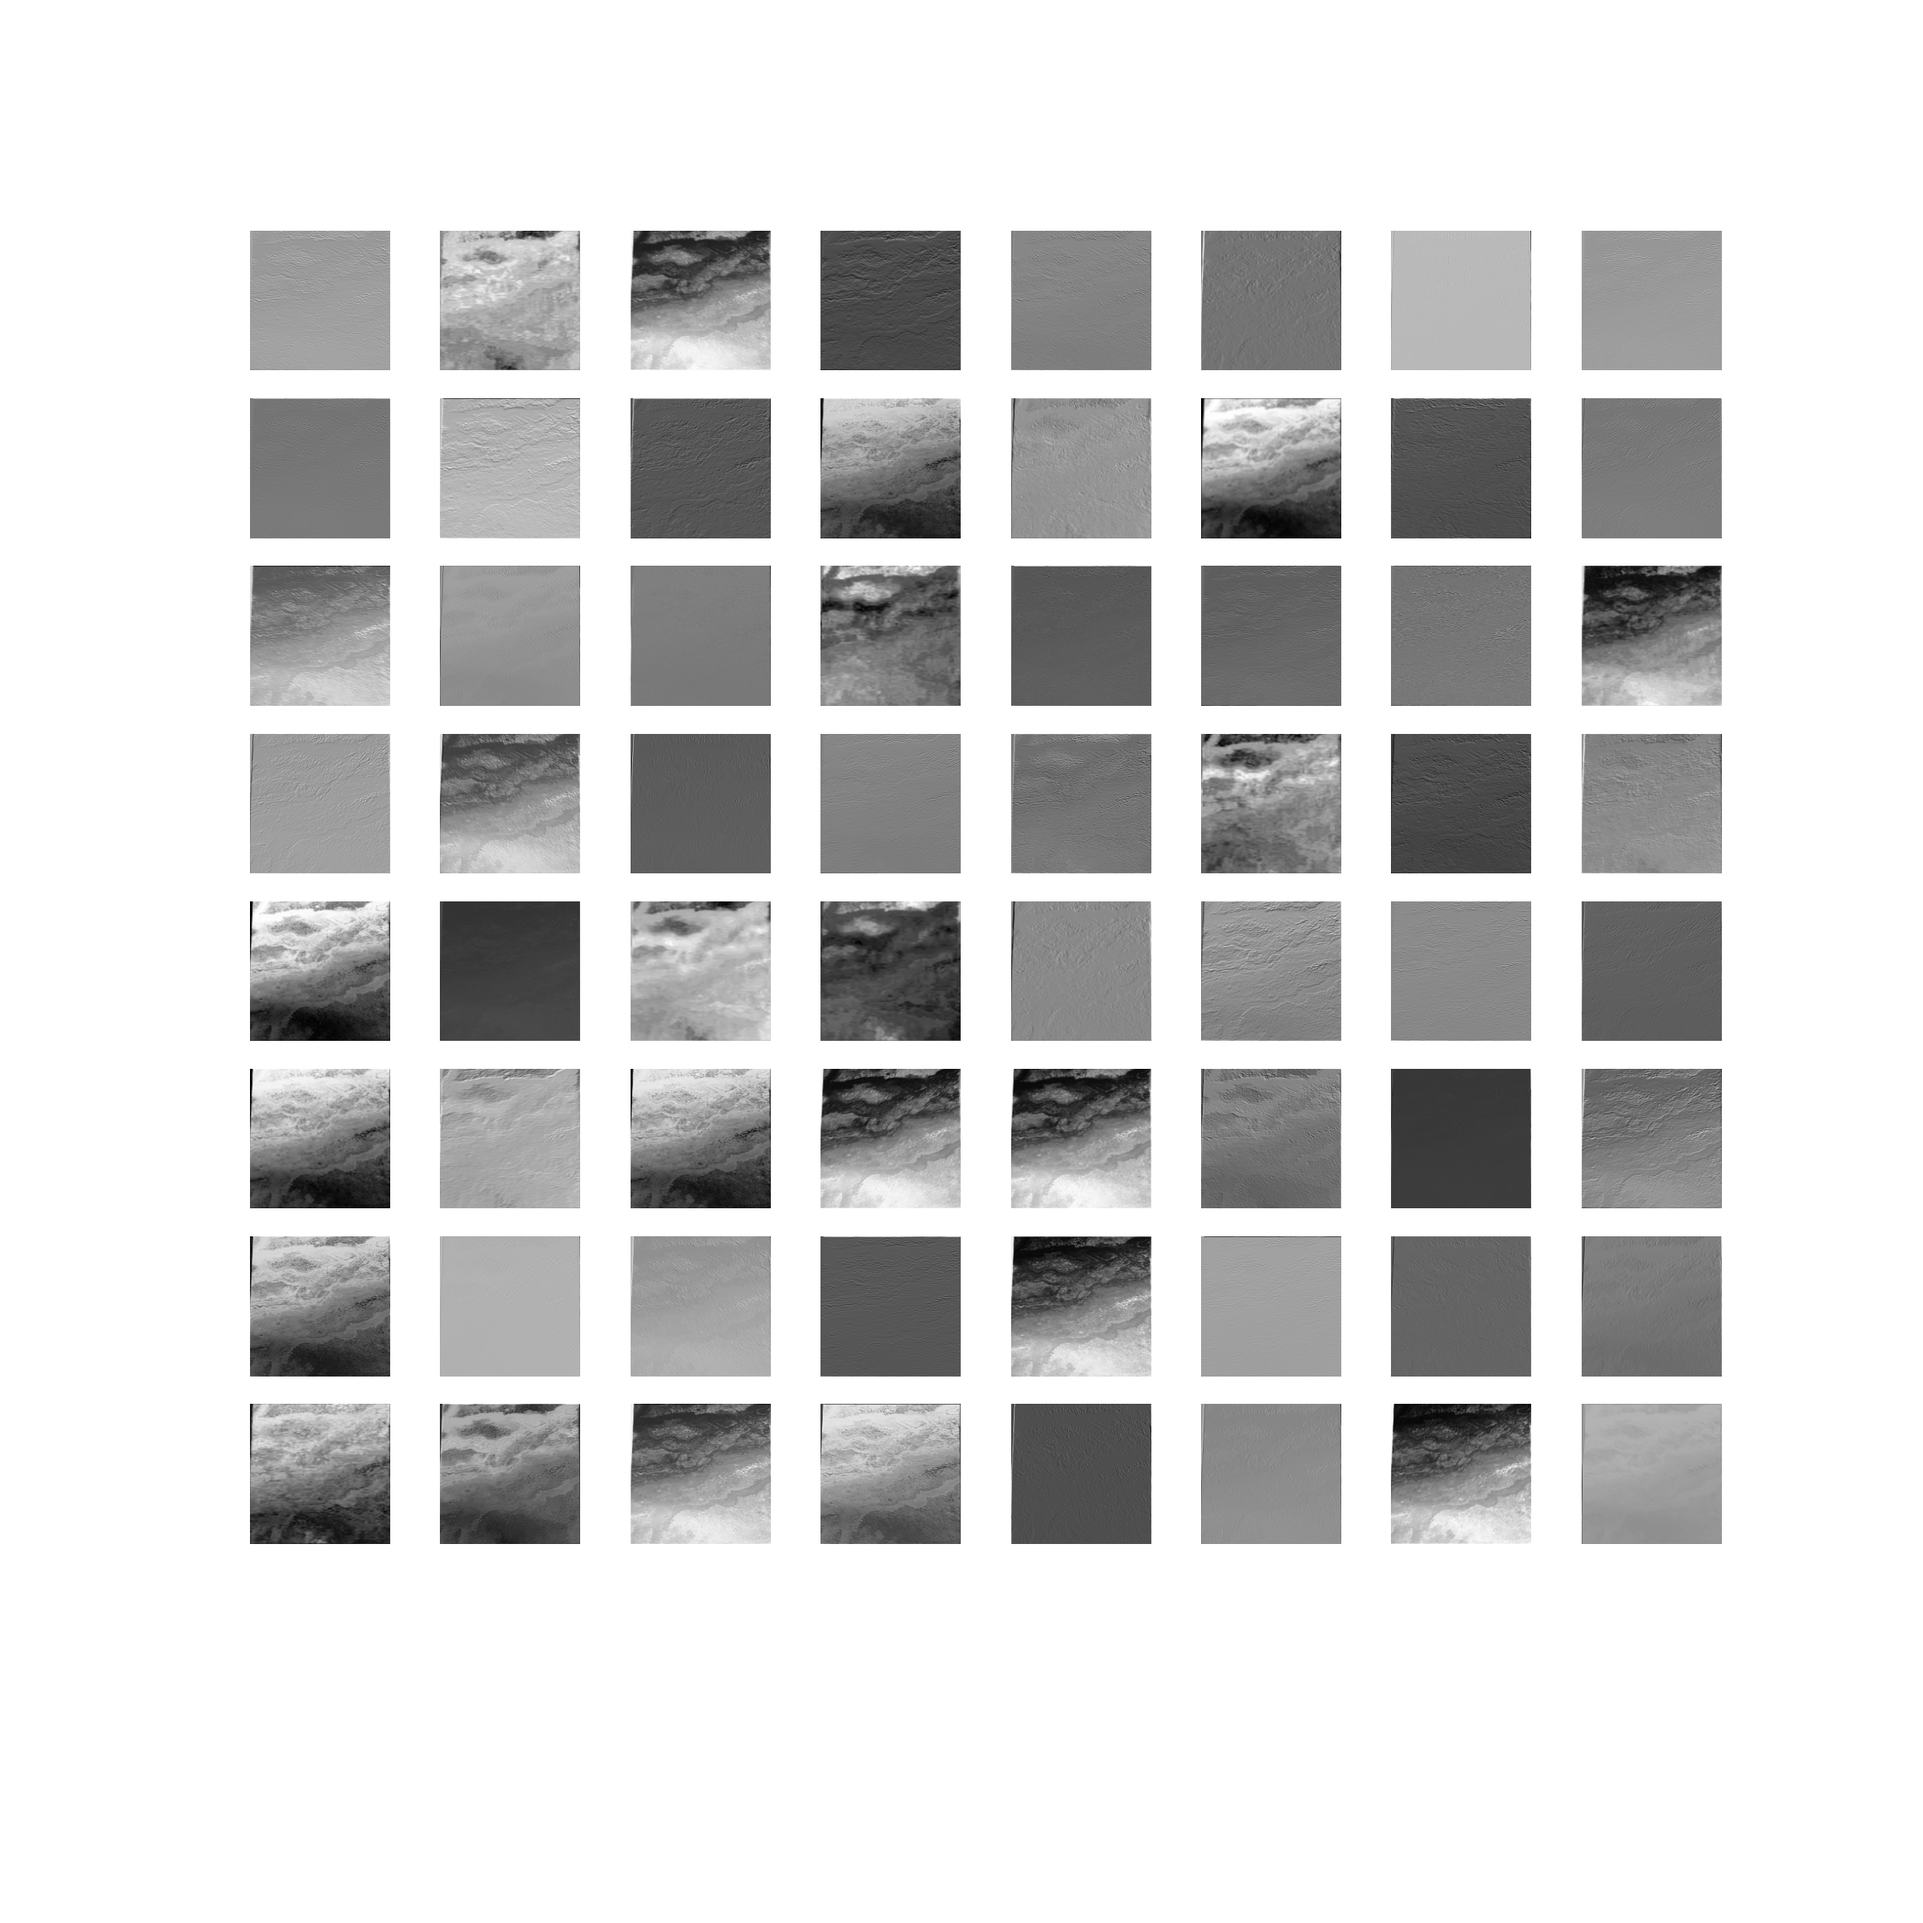
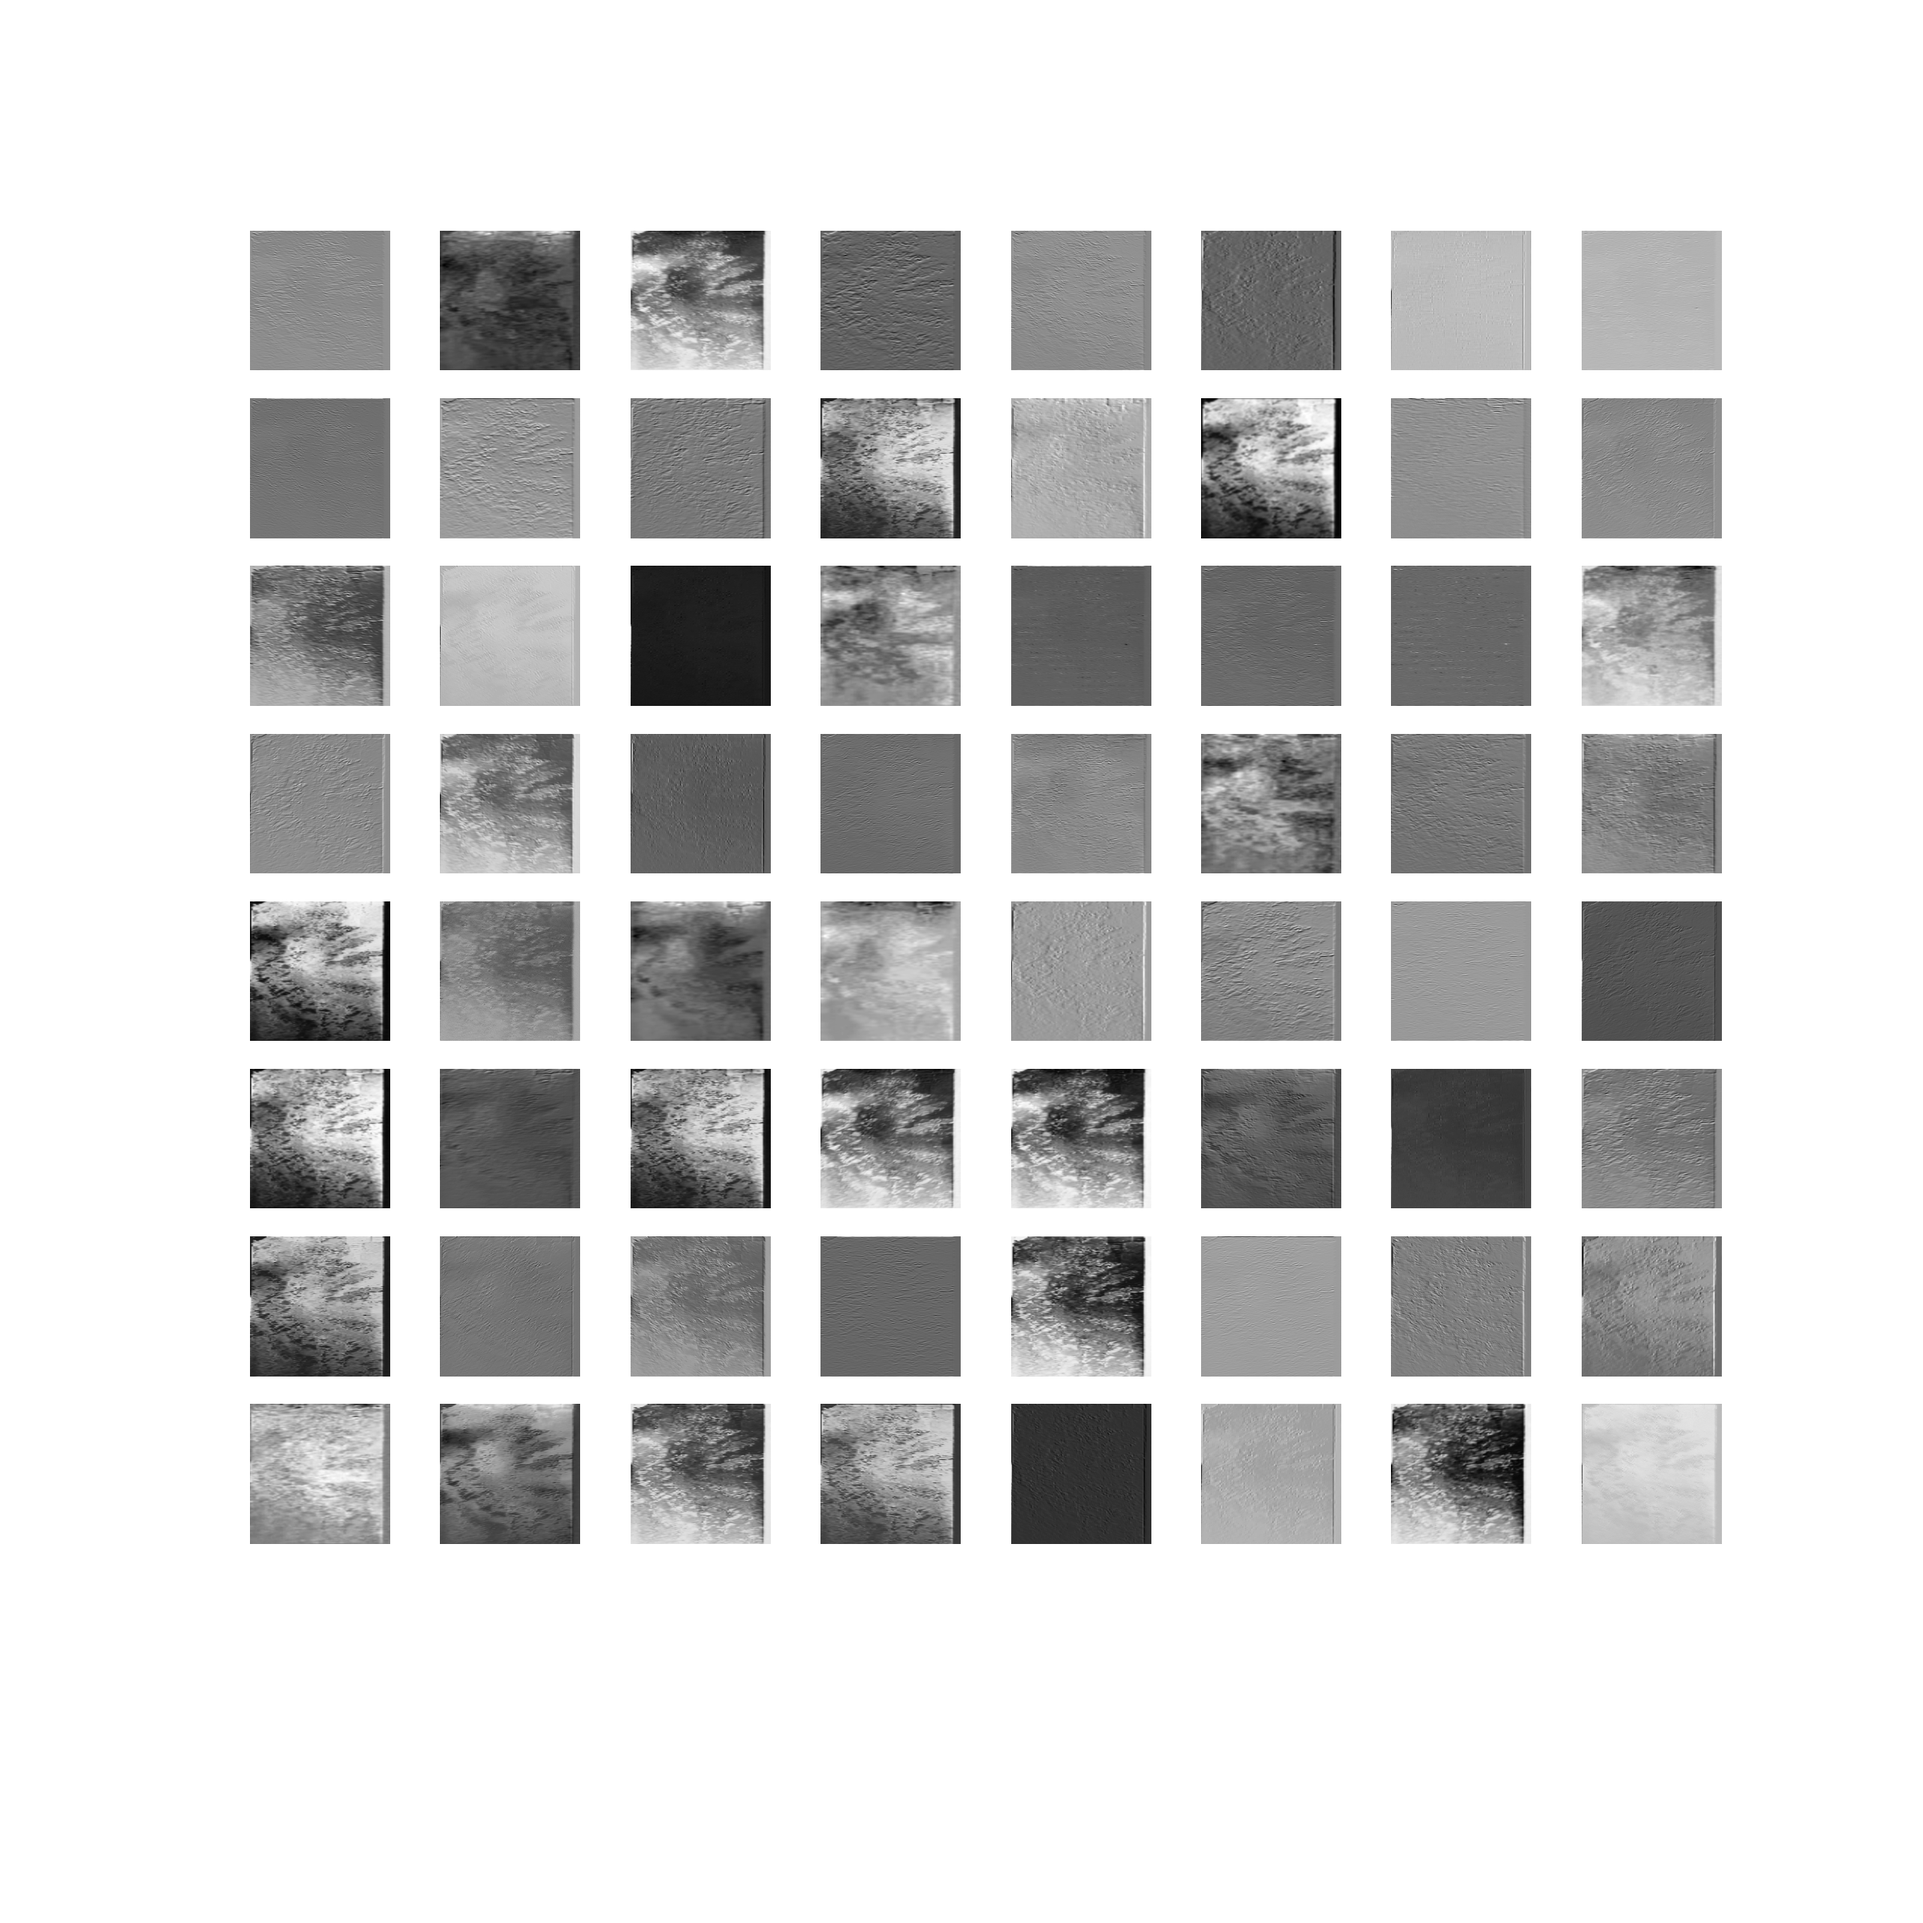
organize the GradCAM and feature maps

diff --git a/model.py b/model.py
@@ -2,7 +2,6 @@
 from PIL import Image
 import matplotlib.pyplot as plt
 import numpy as np
-
 from tqdm import tqdm
 import torch
 from torch import nn
@@ -14,10 +13,6 @@ from sklearn.model_selection import train_test_split
 # locals
 from dataset import StoneDataset
 from neural_net import Net
-
-from pytorch_grad_cam import GradCAM
-from pytorch_grad_cam.utils.model_targets import ClassifierOutputTarget
-from pytorch_grad_cam.utils.image import show_cam_on_image
 
 # Set batch size and number of epochs
 batch_size = 50
@@ -137,68 +132,78 @@ for i, (images, labels) in enumerate(test_dataloader):
         f.write(f'Test Accuracy: {test_accuracy:.2f}')
 
     print(test_accuracy)
-#
-#
-# image = Image.open("data/train/C_processed_image_42.jpg")
-# image = transform(image)
-# image = image.to(device)
-# image = image.unsqueeze(0)
-# output = model(image)
-#
-# # Choose the layer whose feature maps you want to visualize
-# target_layer = model.base_model.conv1
-#
-# # Get the activations (feature maps) from the target layer
-# activations = target_layer(image).cpu()
-#
-# # Convert activations to numpy array
-# activations = activations.detach().numpy()
-#
-# # Visualize the feature maps
-# num_feature_maps = activations.shape[1]  # Number of feature maps
-# plt.figure(figsize=(24, 24))
-# for i in range(num_feature_maps):
-#     plt.subplot(9, 8, i+1)  # Adjust the subplot layout based on the number of feature maps
-#     plt.imshow(activations[0, i, :, :], cmap='gray')
-#     plt.axis('off')
-#
-# plt.savefig("feature_maps.png")
-# plt.show()
 
-# set the model to evaluation mode
-model.eval()
-img_ = Image.open('data/train/A_processed_image_14.jpg')
-img = transform(img_).unsqueeze(0)
-img = img.to(device)
 
-logits = model(img)
-pred = torch.argmax(logits, dim=1)
+def feature_maps(model, image_path):
+    image = Image.open(image_path)
+    image = transform(image)
+    image = image.to(device)
+    image = image.unsqueeze(0)
+    output = model(image)
 
-# Compute the gradients of the predicted class output with respect to the activations of the target layer
-model.zero_grad()
-logits[:, pred].backward()
+    # Choose the layer whose feature maps you want to visualize
+    target_layer = model.base_model.conv1
 
-# Get the activations of the additional_conv layer
-gradients = model.additional_conv.weight.grad  # Gradients of additional_conv with respect to the output
-activations = model.additional_conv.weight
+    # Get the activations (feature maps) from the target layer
+    activations = target_layer(image).cpu()
 
-# Compute the gradient-weighted class activation map (CAM)
-cam = torch.mean(gradients, dim=(2, 3))  # Global average pooling along spatial dimensions
-cam = nn.functional.relu(cam)
-cam = cam.detach().cpu().numpy()[0]  # Convert to numpy array
+    # Convert activations to numpy array
+    activations = activations.detach().numpy()
 
-# # Normalize the CAM
-cam = (cam - np.min(cam)) / (np.max(cam) - np.min(cam) + 1e-10)
+    # Visualize the feature maps
+    num_feature_maps = activations.shape[1]  # Number of feature maps
+    plt.figure(figsize=(24, 24))
+    for i in range(num_feature_maps):
+        plt.subplot(9, 8, i+1)  # Adjust the subplot layout based on the number of feature maps
+        plt.imshow(activations[0, i, :, :], cmap='gray')
+        plt.axis('off')
 
-# Resize the CAM to match the input image size
-cam = np.uint8(255 * cam)
-cam = np.uint8(Image.fromarray(cam).resize((512, 512), Image.Resampling.LANCZOS))
+    plt.savefig("feature_maps.png")
+    plt.show()
 
-# Convert the input image to a numpy array
-input_image_np = img.squeeze().cpu().numpy().transpose(1, 2, 0)
 
+def grad_cam(model, image_path):
+    # set the model to evaluation mode
+    model.eval()
+    img_ = Image.open(image_path)
+    img = transform(img_).unsqueeze(0)
+    img = img.to(device)
+
+    logits = model(img)
+    pred = torch.argmax(logits, dim=1)
+
+    # Compute the gradients of the predicted class output with respect to the activations of the target layer
+    model.zero_grad()
+    logits[:, pred].backward()
+
+    # Get the activations of the additional_conv layer
+    gradients = model.additional_conv.weight.grad  # Gradients of additional_conv with respect to the output
+    activations = model.additional_conv.weight
+
+    # Compute the gradient-weighted class activation map (CAM)
+    cam = torch.mean(gradients, dim=(2, 3))  # Global average pooling along spatial dimensions
+    cam = nn.functional.relu(cam)
+    cam = cam.detach().cpu().numpy()[0]  # Convert to numpy array
+
+    # # Normalize the CAM
+    cam = (cam - np.min(cam)) / (np.max(cam) - np.min(cam) + 1e-10)
+
+    # Resize the CAM to match the input image size
+    cam = np.uint8(255 * cam)
+    cam = np.uint8(Image.fromarray(cam).resize((512, 512), Image.Resampling.LANCZOS))
+
+    # Convert the input image to a numpy array
+    input_image_np = img.squeeze().cpu().numpy().transpose(1, 2, 0)
+
+    return cam, input_image_np
+
+
+CAM, image = grad_cam(model, 'data/train/A_processed_image_14.jpg')
+feature_maps(model, 'data/train/A_processed_image_14.jpg')
 # Visualize the CAM overlaid on the input image
-plt.imshow(input_image_np)
-plt.imshow(cam, cmap='jet', alpha=0.5)  # Overlay the CAM on the input image using a jet colormap
+plt.imshow(image)
+plt.imshow(CAM, cmap='jet', alpha=0.5)  # Overlay the CAM on the input image using a jet colormap
 plt.axis('off')
 plt.show()
+
+
